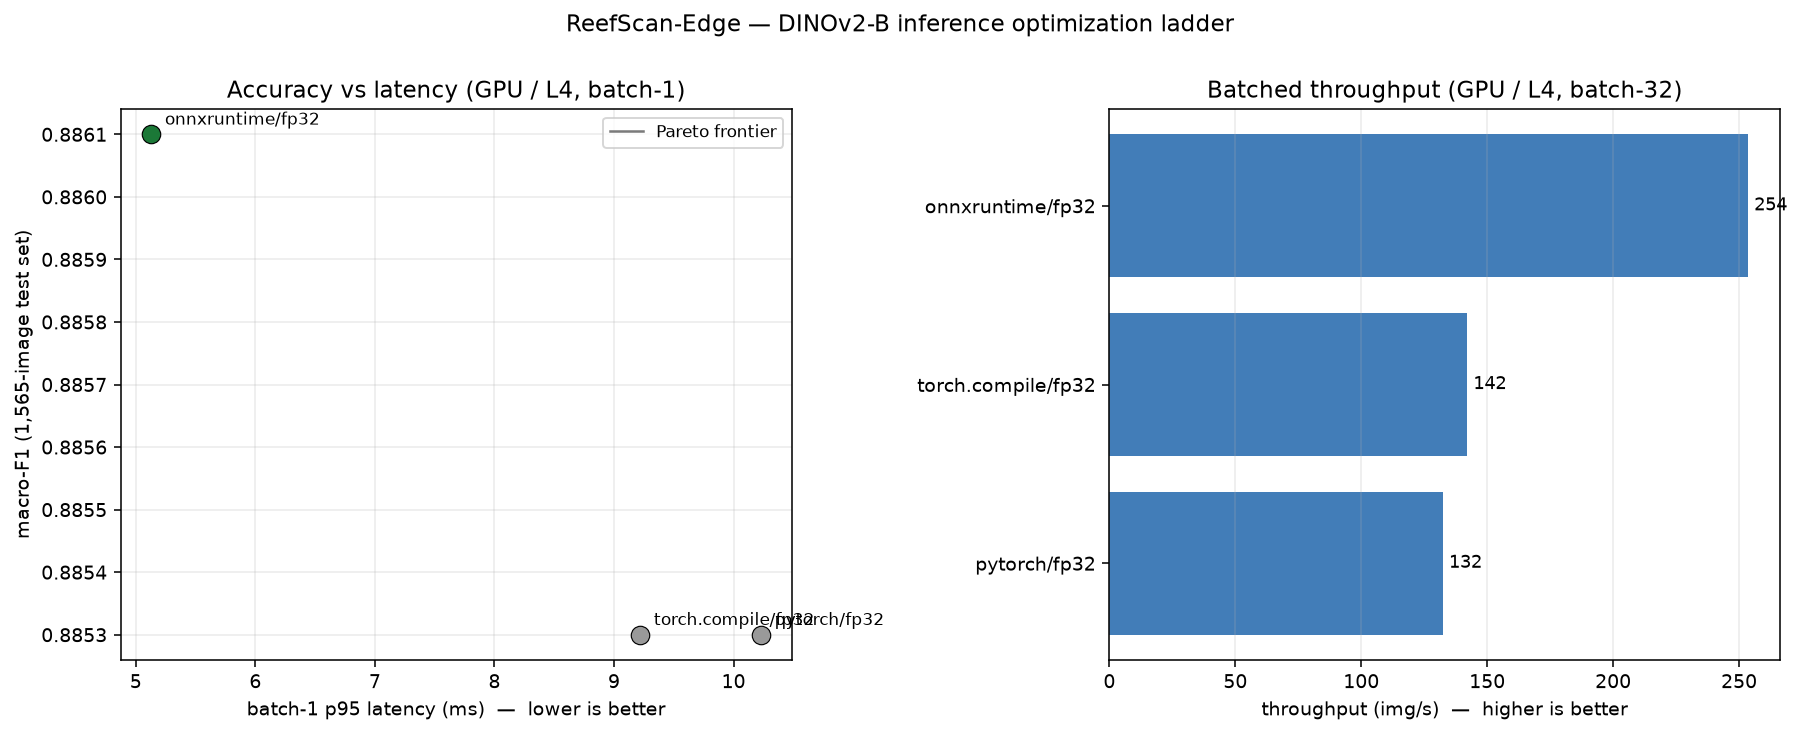
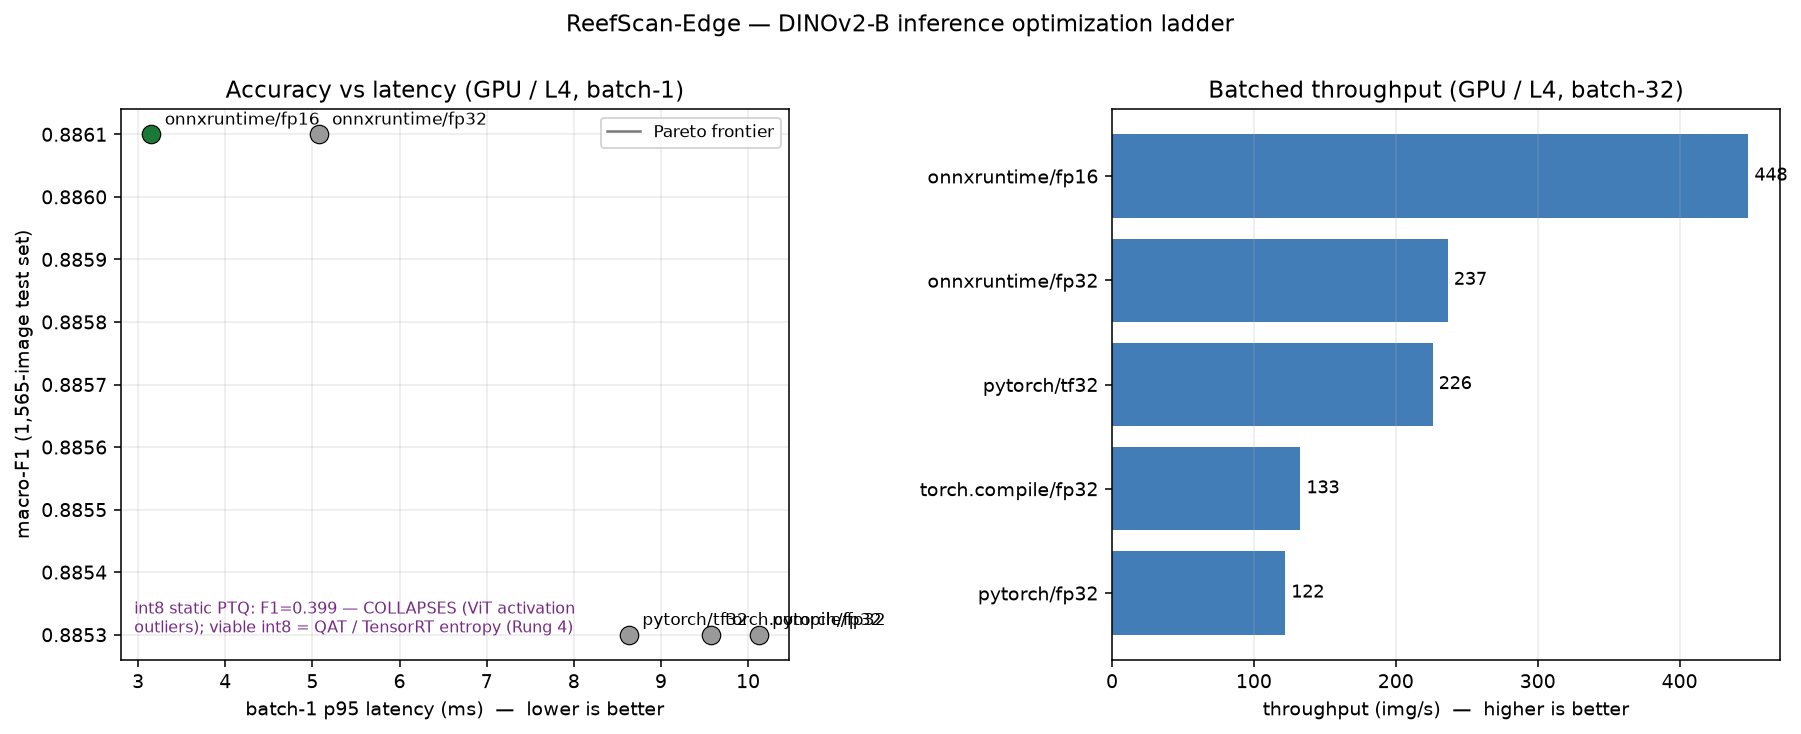
ReefScan-Edge Rung 3b results (L4) — Weekend 1 complete
Full GPU ladder (batch-1 p95 / batched img/s / macro-F1):
  pytorch fp32    9.99ms / 122 / 0.8853   (strict fp32, tensor cores OFF)
  torch.compile   9.12ms / 133 / 0.8853
  pytorch tf32    8.43ms / 226 / 0.8853   <- TF32 control
  onnxruntime fp32 4.93ms / 237 / 0.8861
  onnxruntime fp16 3.12ms / 448 / 0.8861  <- WINNER (Pareto-optimal, lossless)
  onnxruntime int8  collapse: 0.3992 F1, and SLOWER on CPU (QDQ overhead) -> doubly dominated

Key results:
- fp16: 3.2x faster batch-1, 3.7x batched, ZERO accuracy loss. The headline.
- TF32 control answers Rung 3: enabling TF32 in PyTorch jumps batch-32 122->226 img/s, ~= ORT-fp32
  (237). So ORT's fp32 win was mostly TF32 tensor cores (ORT default; PyTorch eager defaults it off),
  not ONNX fusion. CORRECTION to the Rung-3 note: TF32 did NOT change accuracy (pytorch-tf32 stayed
  0.8853); the 0.8853->0.8861 nudge is ORT fused-kernel numerics, not TF32.
- int8 static PTQ collapses (0.3992 F1 on full test) AND is slower than fp32 on CPU -> proper int8
  is the TensorRT rung (entropy calibrator + int8 kernels).
Regenerated RESULTS.md + Pareto figure (frontier = onnxruntime/fp16).

Claude-Session: https://claude.ai/code/session_014W7e47yYgJ2UxPKTfgmogX

diff --git a/edge/RESULTS.md b/edge/RESULTS.md
@@ -7,9 +7,15 @@ Batch-1 and batched rows are separate (never conflated).
 |---|---|---|---:|---:|---:|---:|---:|---:|---:|---:|
 | pytorch | fp32 | cpu | 1 | 141.31 | 160.99 | 165.70 | 7.0 | — | 0.8874 | 0.8952 |
 | pytorch | fp32 | cpu | 32 | 3712.90 | 4324.04 | 4361.10 | 8.5 | — | 0.8874 | 0.8952 |
-| pytorch | fp32 | cuda | 1 | 9.99 | 10.23 | 11.27 | 99.6 | 369 | 0.8853 | 0.8933 |
-| pytorch | fp32 | cuda | 32 | 241.05 | 247.69 | 248.53 | 132.4 | 780 | 0.8853 | 0.8933 |
-| torch.compile | fp32 | cuda | 1 | 8.89 | 9.22 | 9.37 | 112.1 | 363 | 0.8853 | 0.8933 |
-| torch.compile | fp32 | cuda | 32 | 224.79 | 231.41 | 234.35 | 142.1 | 603 | 0.8853 | 0.8933 |
-| onnxruntime | fp32 | cuda | 1 | 4.89 | 5.13 | 5.18 | 203.2 | 361 | 0.8861 | 0.8939 |
-| onnxruntime | fp32 | cuda | 32 | 126.32 | 127.58 | 128.31 | 253.6 | 380 | 0.8861 | 0.8939 |
+| pytorch | fp32 | cuda | 1 | 9.99 | 10.12 | 10.13 | 100.1 | 369 | 0.8853 | 0.8933 |
+| pytorch | fp32 | cuda | 32 | 261.72 | 271.34 | 272.28 | 122.1 | 780 | 0.8853 | 0.8933 |
+| torch.compile | fp32 | cuda | 1 | 9.12 | 9.58 | 9.64 | 109.0 | 363 | 0.8853 | 0.8933 |
+| torch.compile | fp32 | cuda | 32 | 240.05 | 247.84 | 255.66 | 132.8 | 603 | 0.8853 | 0.8933 |
+| onnxruntime | fp32 | cuda | 1 | 4.93 | 5.07 | 5.09 | 202.5 | 361 | 0.8861 | 0.8939 |
+| onnxruntime | fp32 | cuda | 32 | 135.48 | 138.28 | 138.88 | 236.7 | 380 | 0.8861 | 0.8939 |
+| pytorch | tf32 | cuda | 1 | 8.43 | 8.63 | 9.75 | 118.4 | 369 | 0.8853 | 0.8933 |
+| pytorch | tf32 | cuda | 32 | 141.03 | 147.97 | 150.69 | 226.0 | 780 | 0.8853 | 0.8933 |
+| onnxruntime | fp16 | cuda | 1 | 3.12 | 3.15 | 3.18 | 320.4 | 356 | 0.8861 | 0.8939 |
+| onnxruntime | fp16 | cuda | 32 | 71.57 | 73.32 | 73.84 | 448.4 | 375 | 0.8861 | 0.8939 |
+| onnxruntime | int8 | cpu | 1 | 192.73 | 203.69 | 212.74 | 5.2 | — | 0.3992 | 0.6192 |
+| onnxruntime | int8 | cpu | 32 | 4178.32 | 4344.09 | 4354.92 | 7.6 | — | 0.3992 | 0.6192 |

diff --git a/edge/README.md b/edge/README.md
@@ -27,10 +27,16 @@ The Colab notebook `edge/colab/reefscan_edge.ipynb` runs the GPU rungs end-to-en
 `results.csv` is append-by-replace: re-running a rung overwrites its rows, never duplicates them.
 
 ## Rung 3b findings (precision)
-- **fp16 is the precision win: lossless.** The ONNX graph cast to fp16 (keep_io_types) matches fp32
-  macro-F1 exactly on the test set, and uses the GPU's tensor cores (which fp32 leaves idle).
-- **TF32 control** isolates how much of the ONNX-Runtime win was TF32 vs graph fusion — PyTorch eager
-  defaults TF32 *off* for matmul, so the fp32 baseline never touched tensor cores.
+- **fp16 is the precision win, and it's lossless.** The ONNX graph cast to fp16 (keep_io_types)
+  matches ORT-fp32 macro-F1 exactly (0.8861) and is the Pareto-optimal point: batch-1 **3.12 ms p95
+  (3.2× over PyTorch fp32)**, **448 img/s batched (3.7×)** — using the tensor cores fp32 leaves idle.
+- **The TF32 control resolved the Rung-3 mystery (and corrected my first guess).** Enabling TF32 in
+  PyTorch lifted batch-32 throughput 122 → 226 img/s — landing right next to ORT-fp32's 237. So ~all of
+  ORT's apparent "fp32" advantage was **TF32 tensor cores** (ORT enables them by default; PyTorch eager
+  defaults TF32 *off* for matmul), not ONNX graph magic. BUT TF32 did **not** move accuracy
+  (pytorch-tf32 stayed 0.8853, same as strict fp32), so the small 0.8853 → 0.8861 nudge on the ORT rows
+  is ORT's fused-kernel numerics (LayerNorm/GELU), independent of TF32 — not the TF32 effect I'd
+  speculated at Rung 3.
 - **int8 static PTQ collapses this ViT — a documented negative.** Across naive all-op vs MatMul-only
   quantization × MinMax vs Entropy calibration, static int8 lands at ~0.43–0.48 macro-F1 (≈ majority
   class). DINOv2's heavy-tailed activation outliers get squashed by static int8 calibration. The